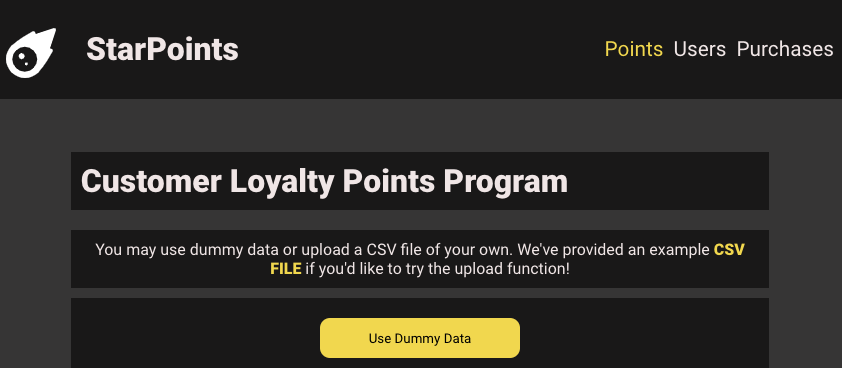
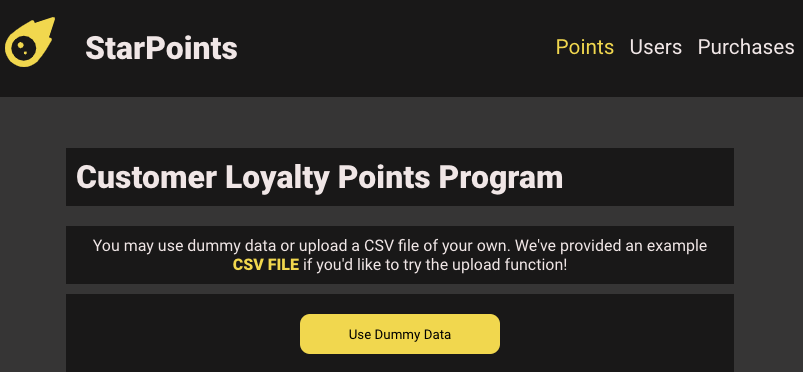
Updated preview image

diff --git a/src/App.module.css b/src/App.module.css
@@ -34,6 +34,7 @@
 .Logo{
     width: 50px;
     margin: 10px;
+    padding-bottom: 10px;
 }
 
 .Title{
@@ -49,7 +50,7 @@ nav{
 .NavLink{
     color: var(--light-color);
     text-decoration: none;
-    margin-left: 10px;
+    margin-left: 15px;
     font-size: 1.3rem;
 }
 
